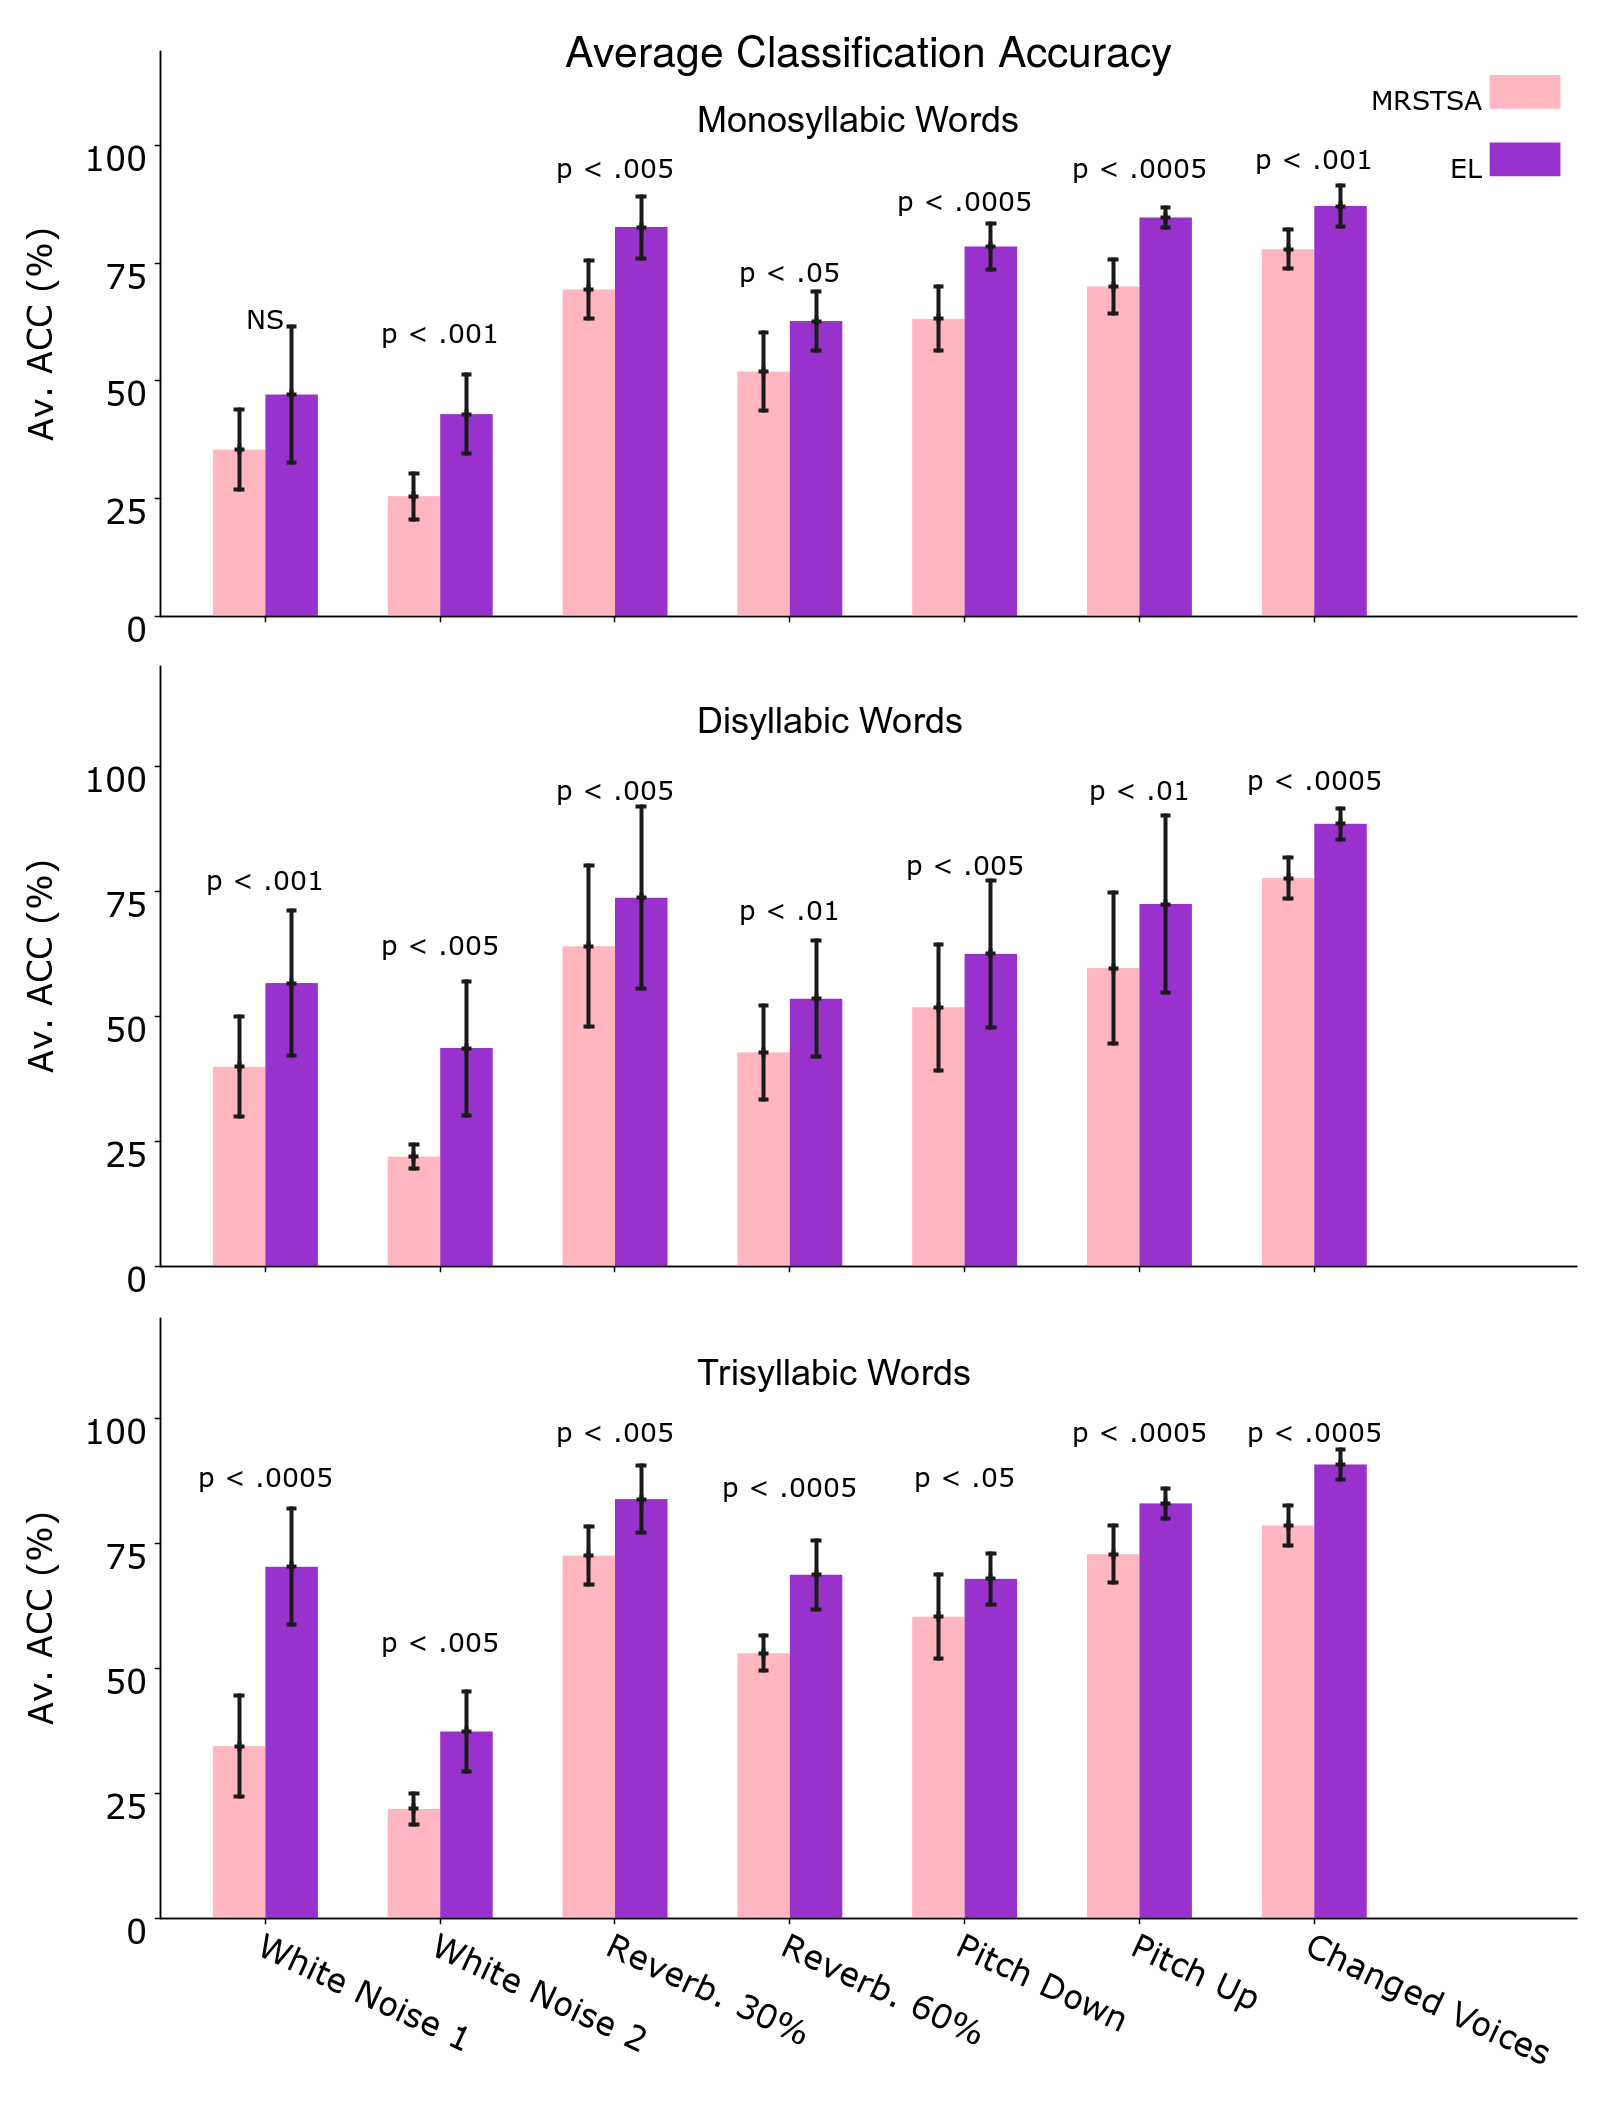
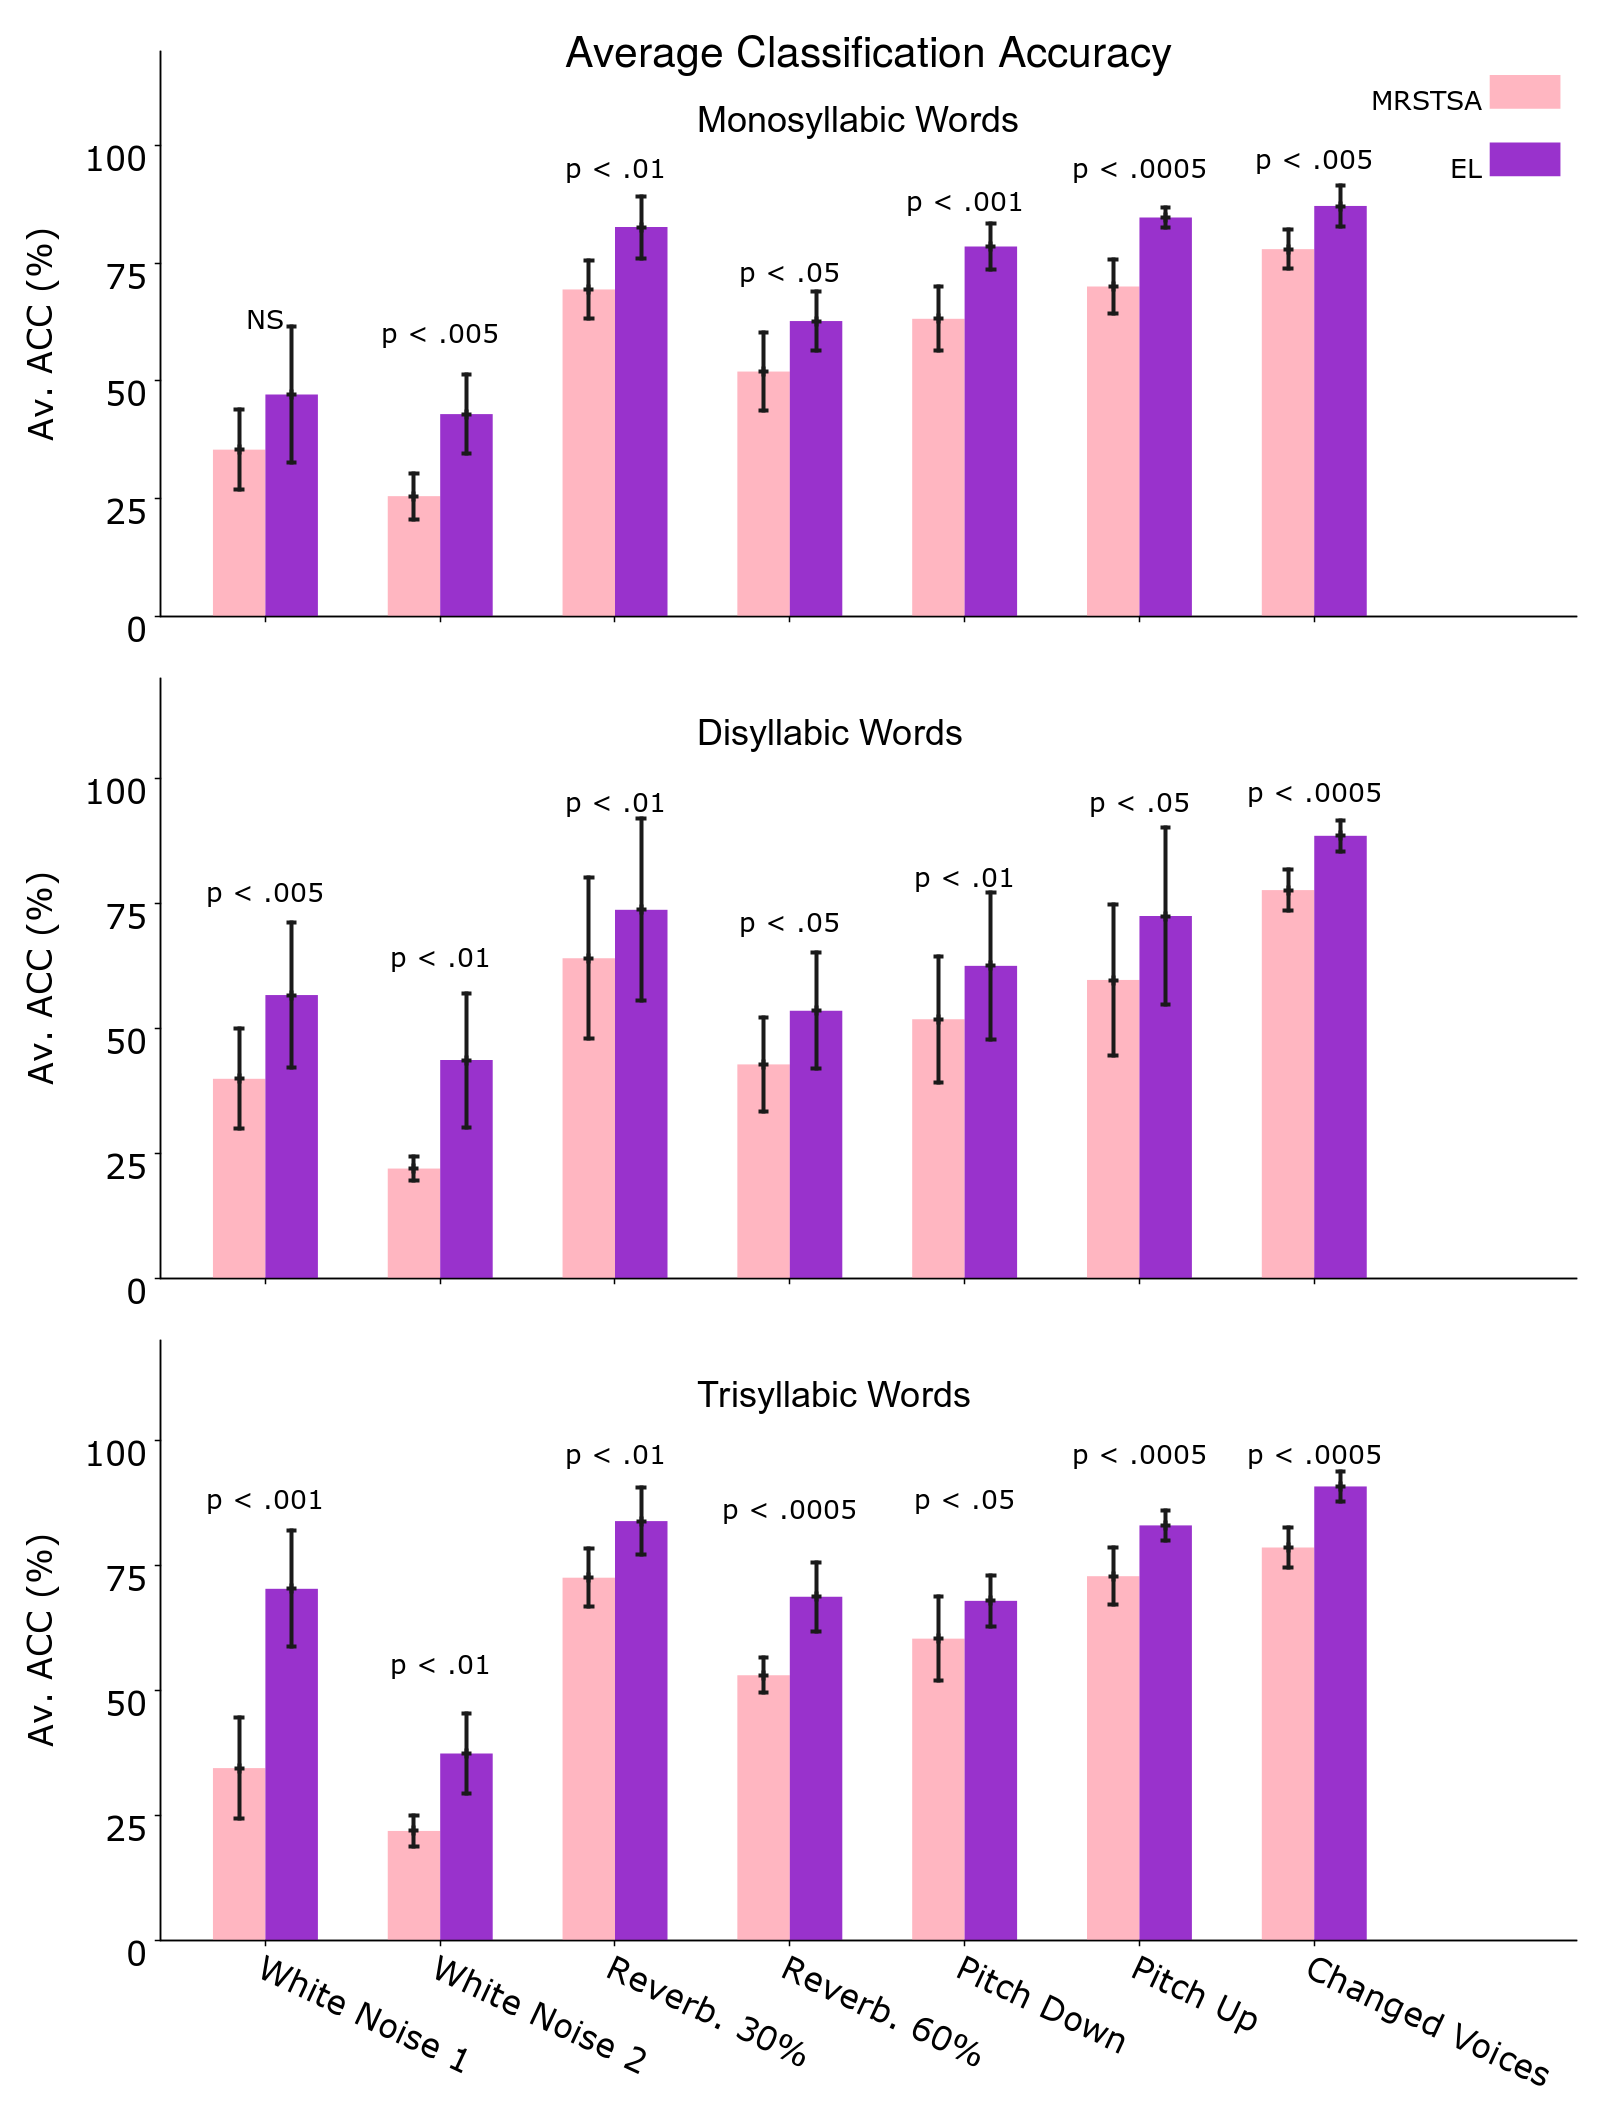
Addressing reviewer #4 concerns

diff --git a/plos_latex_template.tex b/plos_latex_template.tex
@@ -196,13 +196,14 @@
 %\newcommand{\reviewerfive}[1]{\textcolor{green}{#1}}
 
 \definecolor{airforceblue}{rgb}{0.36, 0.54, 0.66}
-\newcommand{\reviewertwo}[1]{\textcolor{airforceblue}{#1}}
-\newcommand{\reviewerfour}[1]{\textcolor{airforceblue}{#1}}
-\newcommand{\reviewerfive}[1]{\textcolor{airforceblue}{#1}}
+%\newcommand{\reviewertwo}[1]{\textcolor{airforceblue}{#1}}
+%\newcommand{\reviewerfour}[1]{\textcolor{airforceblue}{#1}}
+%\newcommand{\reviewerfive}[1]{\textcolor{airforceblue}{#1}}
+\newcommand{\newreview}[1]{\textcolor{airforceblue}{#1}}
 
-%\newcommand{\reviewertwo}[1]{\textcolor{black}{#1}}
-%\newcommand{\reviewerfour}[1]{\textcolor{black}{#1}}
-%\newcommand{\reviewerfive}[1]{\textcolor{black}{#1}}
+\newcommand{\reviewertwo}[1]{\textcolor{black}{#1}}
+\newcommand{\reviewerfour}[1]{\textcolor{black}{#1}}
+\newcommand{\reviewerfive}[1]{\textcolor{black}{#1}}
 
 %\newcommand{\reviewertwo}[1]{\hl{#1}}
 %\newcommand{\reviewerfour}[1]{\hl{#1}}
@@ -1357,7 +1358,7 @@ The classification performances are shown in Fig. \ref{fig:PLOT}.
     for monosyllabic, disyllabic and trisyllabic words.
     White Noise 1 determines a \gls{snr} average \gls{rms} power rate of 19.8 dB while White Noise 2 13.8 dB.
     Reverberation 30\% determines a \gls{rt} value of 0.61 seconds while Reverberation 60\% determines a \gls{rt} value of 1.78 seconds.
-    Pitch Up determines a pitch move from E to G, while Pitch Down determines a pitch move from E to C. Changed Voices corresponds to corpora generated using a different set of voices from the one used to train the \glspl{el} and the classifiers. \reviewertwo{Error bars depict 95\% Confidence Interval values. The \emph{p} values correspond to one-tailed paired t-tests and NS stands for Not Statistically Significant.}}
+    Pitch Up determines a pitch move from E to G, while Pitch Down determines a pitch move from E to C. Changed Voices corresponds to corpora generated using a different set of voices from the one used to train the \glspl{el} and the classifiers. \reviewertwo{Error bars depict 95\% Confidence Interval values. The \emph{p} values correspond to \newreview{two-tailed} paired t-tests and NS stands for Not Statistically Significant.}}
     \label{fig:PLOT}
 \end{figure}
 
@@ -1418,10 +1419,12 @@ white noise, reverberation and pitch \reviewerfour{and voice} variations.
 As can be seen in the figures, the \gls{el} outperforms the \gls{mrstsa} in all cases.
 Such behavior persists for multisyllabic words.
 
-\reviewertwo{We performed one-tailed paired t-tests for 10 different corpora generated from 10 different vocabularies--section \nameref{CorpGen}. As can be seen in Fig. \ref{fig:PLOT}--except for monosyllabic words with White Noise 1 $(p < 0.11)$--there was Statistical Significance for all conditions considering $(p<0.05)$}.
+\reviewertwo{We performed \newreview{two-tailed} paired t-tests for 10 different corpora generated from 10 different vocabularies--section \nameref{CorpGen}. As can be seen in Fig. \ref{fig:PLOT}--except for monosyllabic words with White Noise 1 \newreview{$(p < 0.22)$}--there was Statistical Significance for all conditions considering $(p<0.05)$}.
+
+\newreview{Given that we conducted 7 t-tests for each independent word classification task, we also used Holm–Bonferroni corrections with a correction factor of 7 in order to reduce the probability of type I and type II errors in the context of the different experimental conditions. By means of such corrections we confirmed the statistical significance for all the cases showed in Fig.\ref{fig:PLOT}.}
 
 Fig. \ref{fig:AV_ACC} shows average classification accuracies across all \reviewertwo{acoustic variants} for mono, di and trisyllabic words.
-\reviewertwo{In this case, we also performed one-tailed paired t-tests, but this time for 7 different acoustic variant conditions.
+\reviewertwo{In this case, we also performed \newreview{two-tailed} paired t-tests, but this time for 7 different acoustic variant conditions.
 As can be seen in the figure, all performed tests are statistically significant and the encoder layer clearly shows
 a sustained superiority across words with different number of syllables}.
  
@@ -1429,7 +1432,7 @@ a sustained superiority across words with different number of syllables}.
 \begin{figure}[h!]
     \centering
     \includegraphics[width=0.9\textwidth]{PLOT1.png}
-    \caption{Average classification accuracies across all \reviewertwo{acoustic variants} for mono, di and trisyllabic words. \reviewertwo{Error bars depict 95\% Confidence Interval values. The \emph{p} values correspond to one-tailed paired t-tests}.}
+    \caption{Average classification accuracies across all \reviewertwo{acoustic variants} for mono, di and trisyllabic words. \reviewertwo{Error bars depict 95\% Confidence Interval values. The \emph{p} values correspond to \newreview{two-tailed} paired t-tests}.}
     \label{fig:AV_ACC}
 \end{figure}
 
